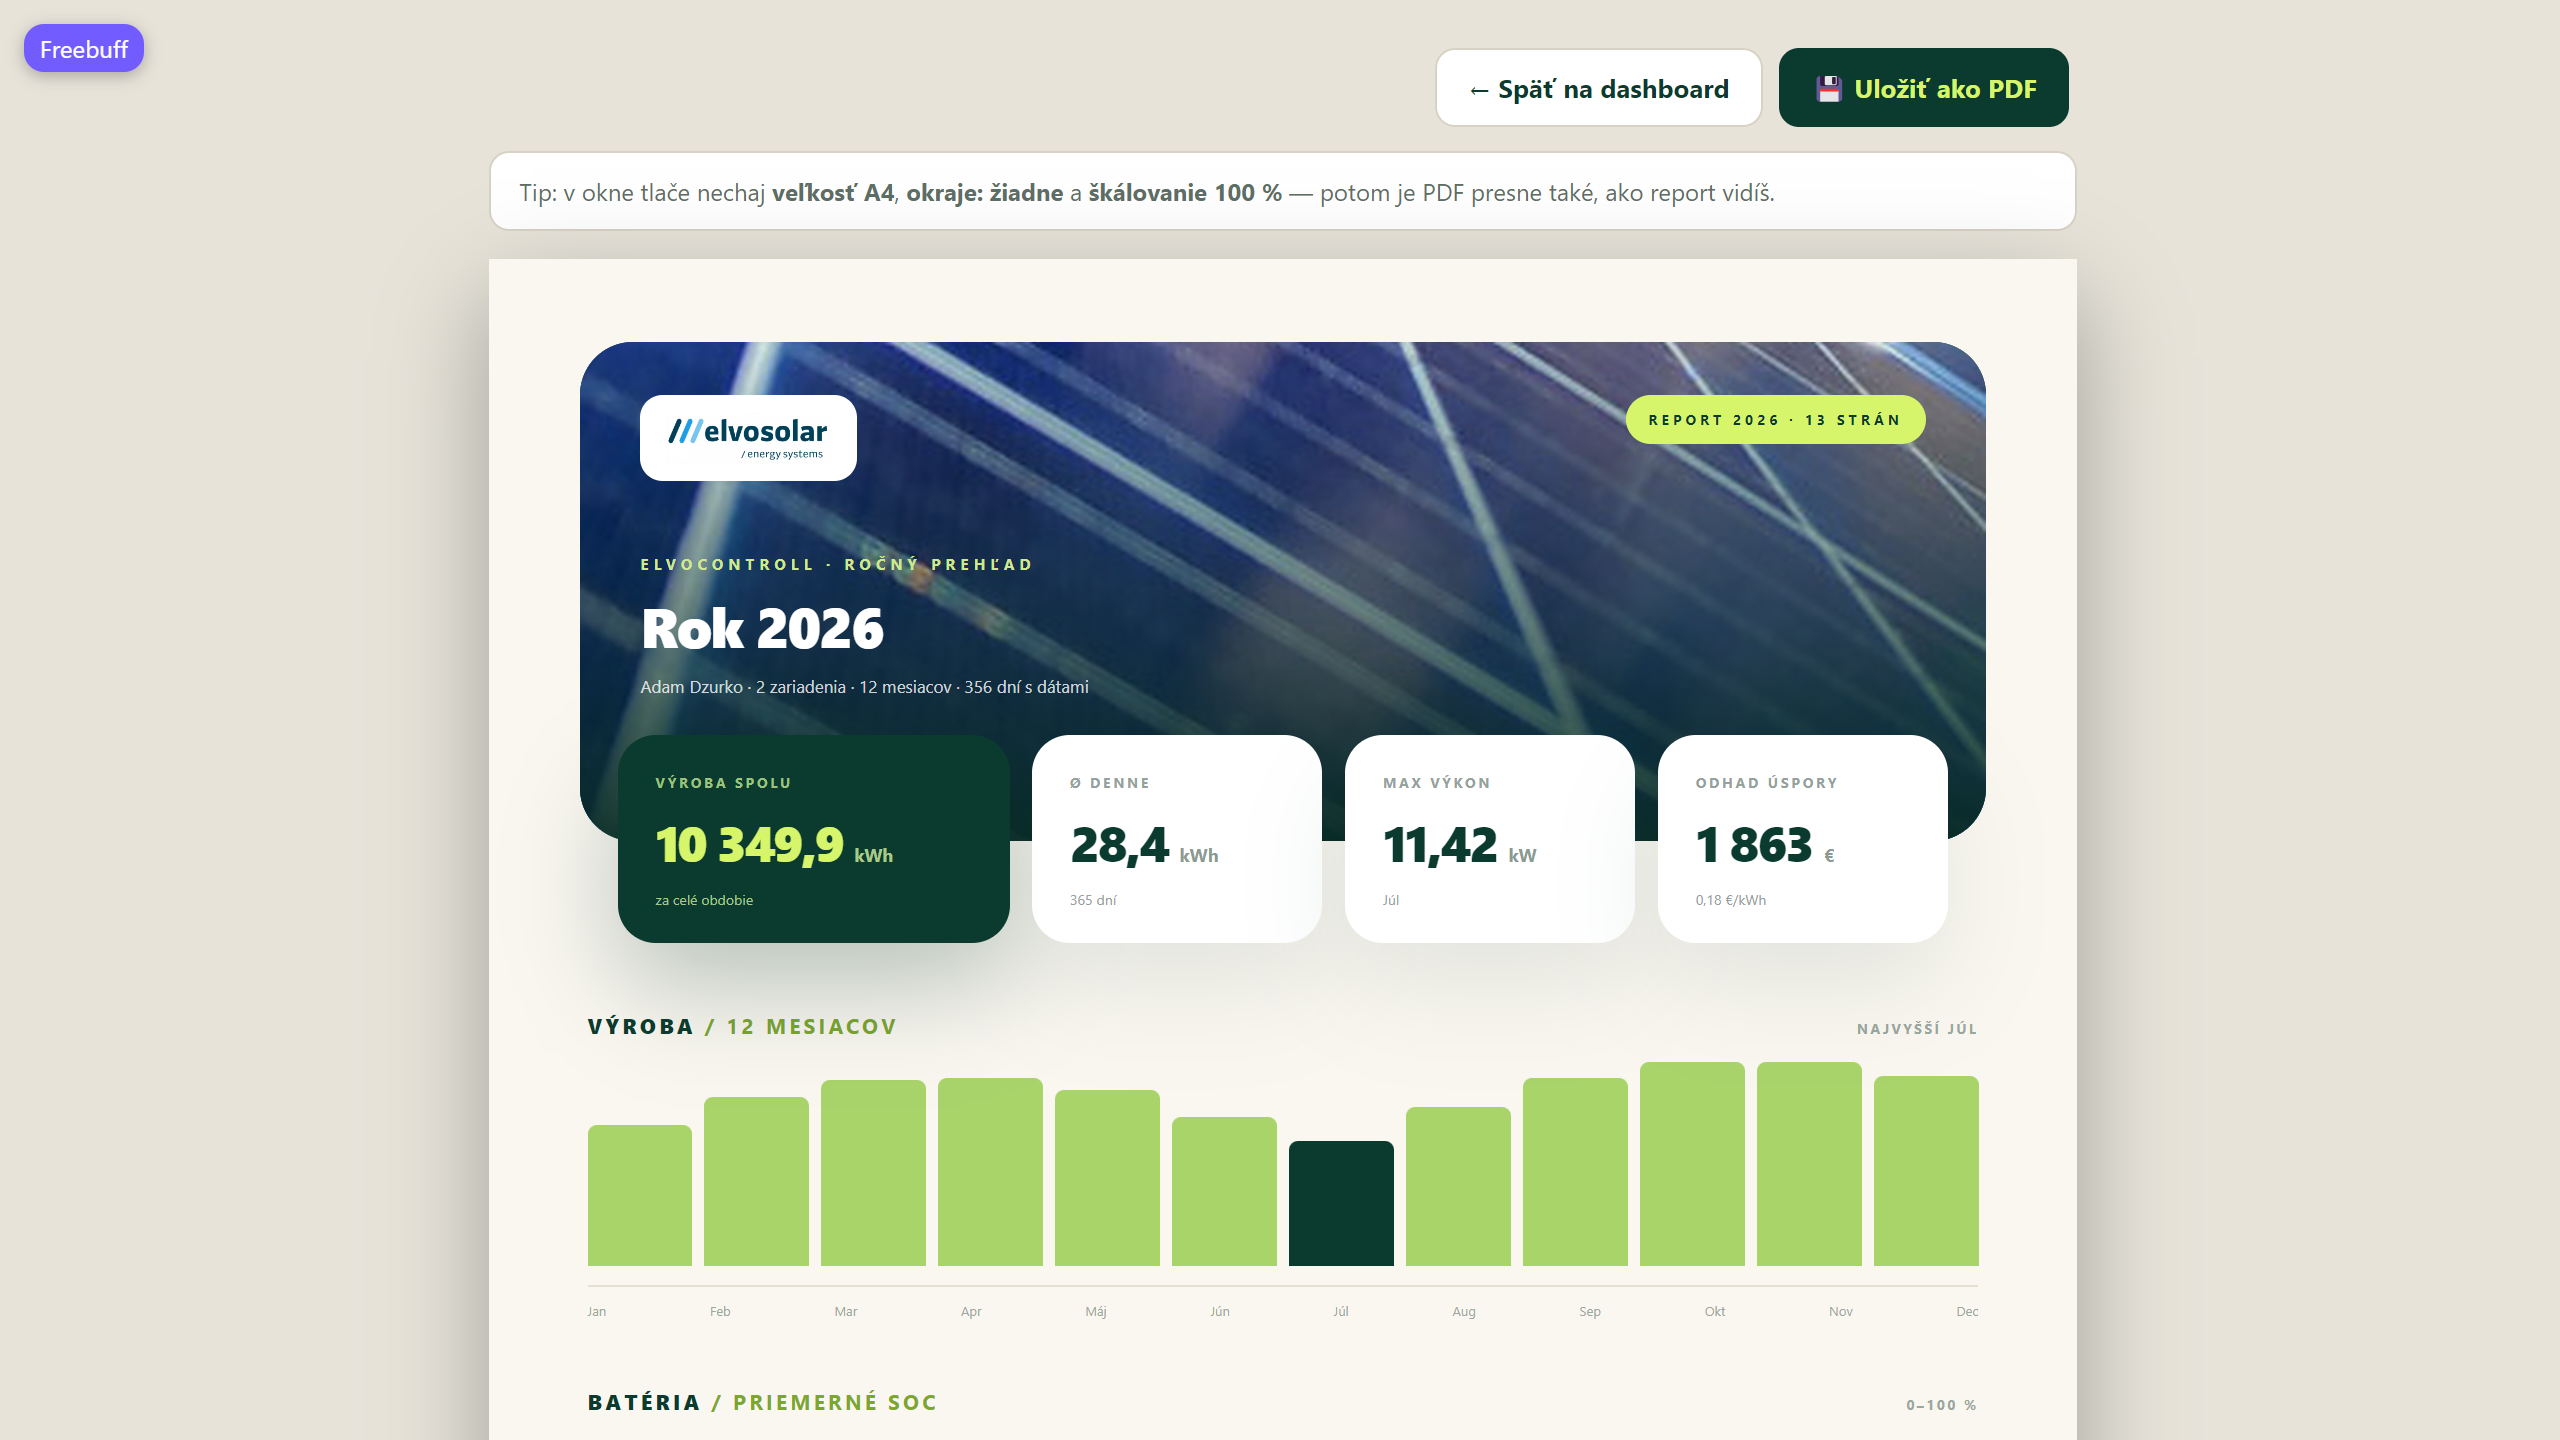
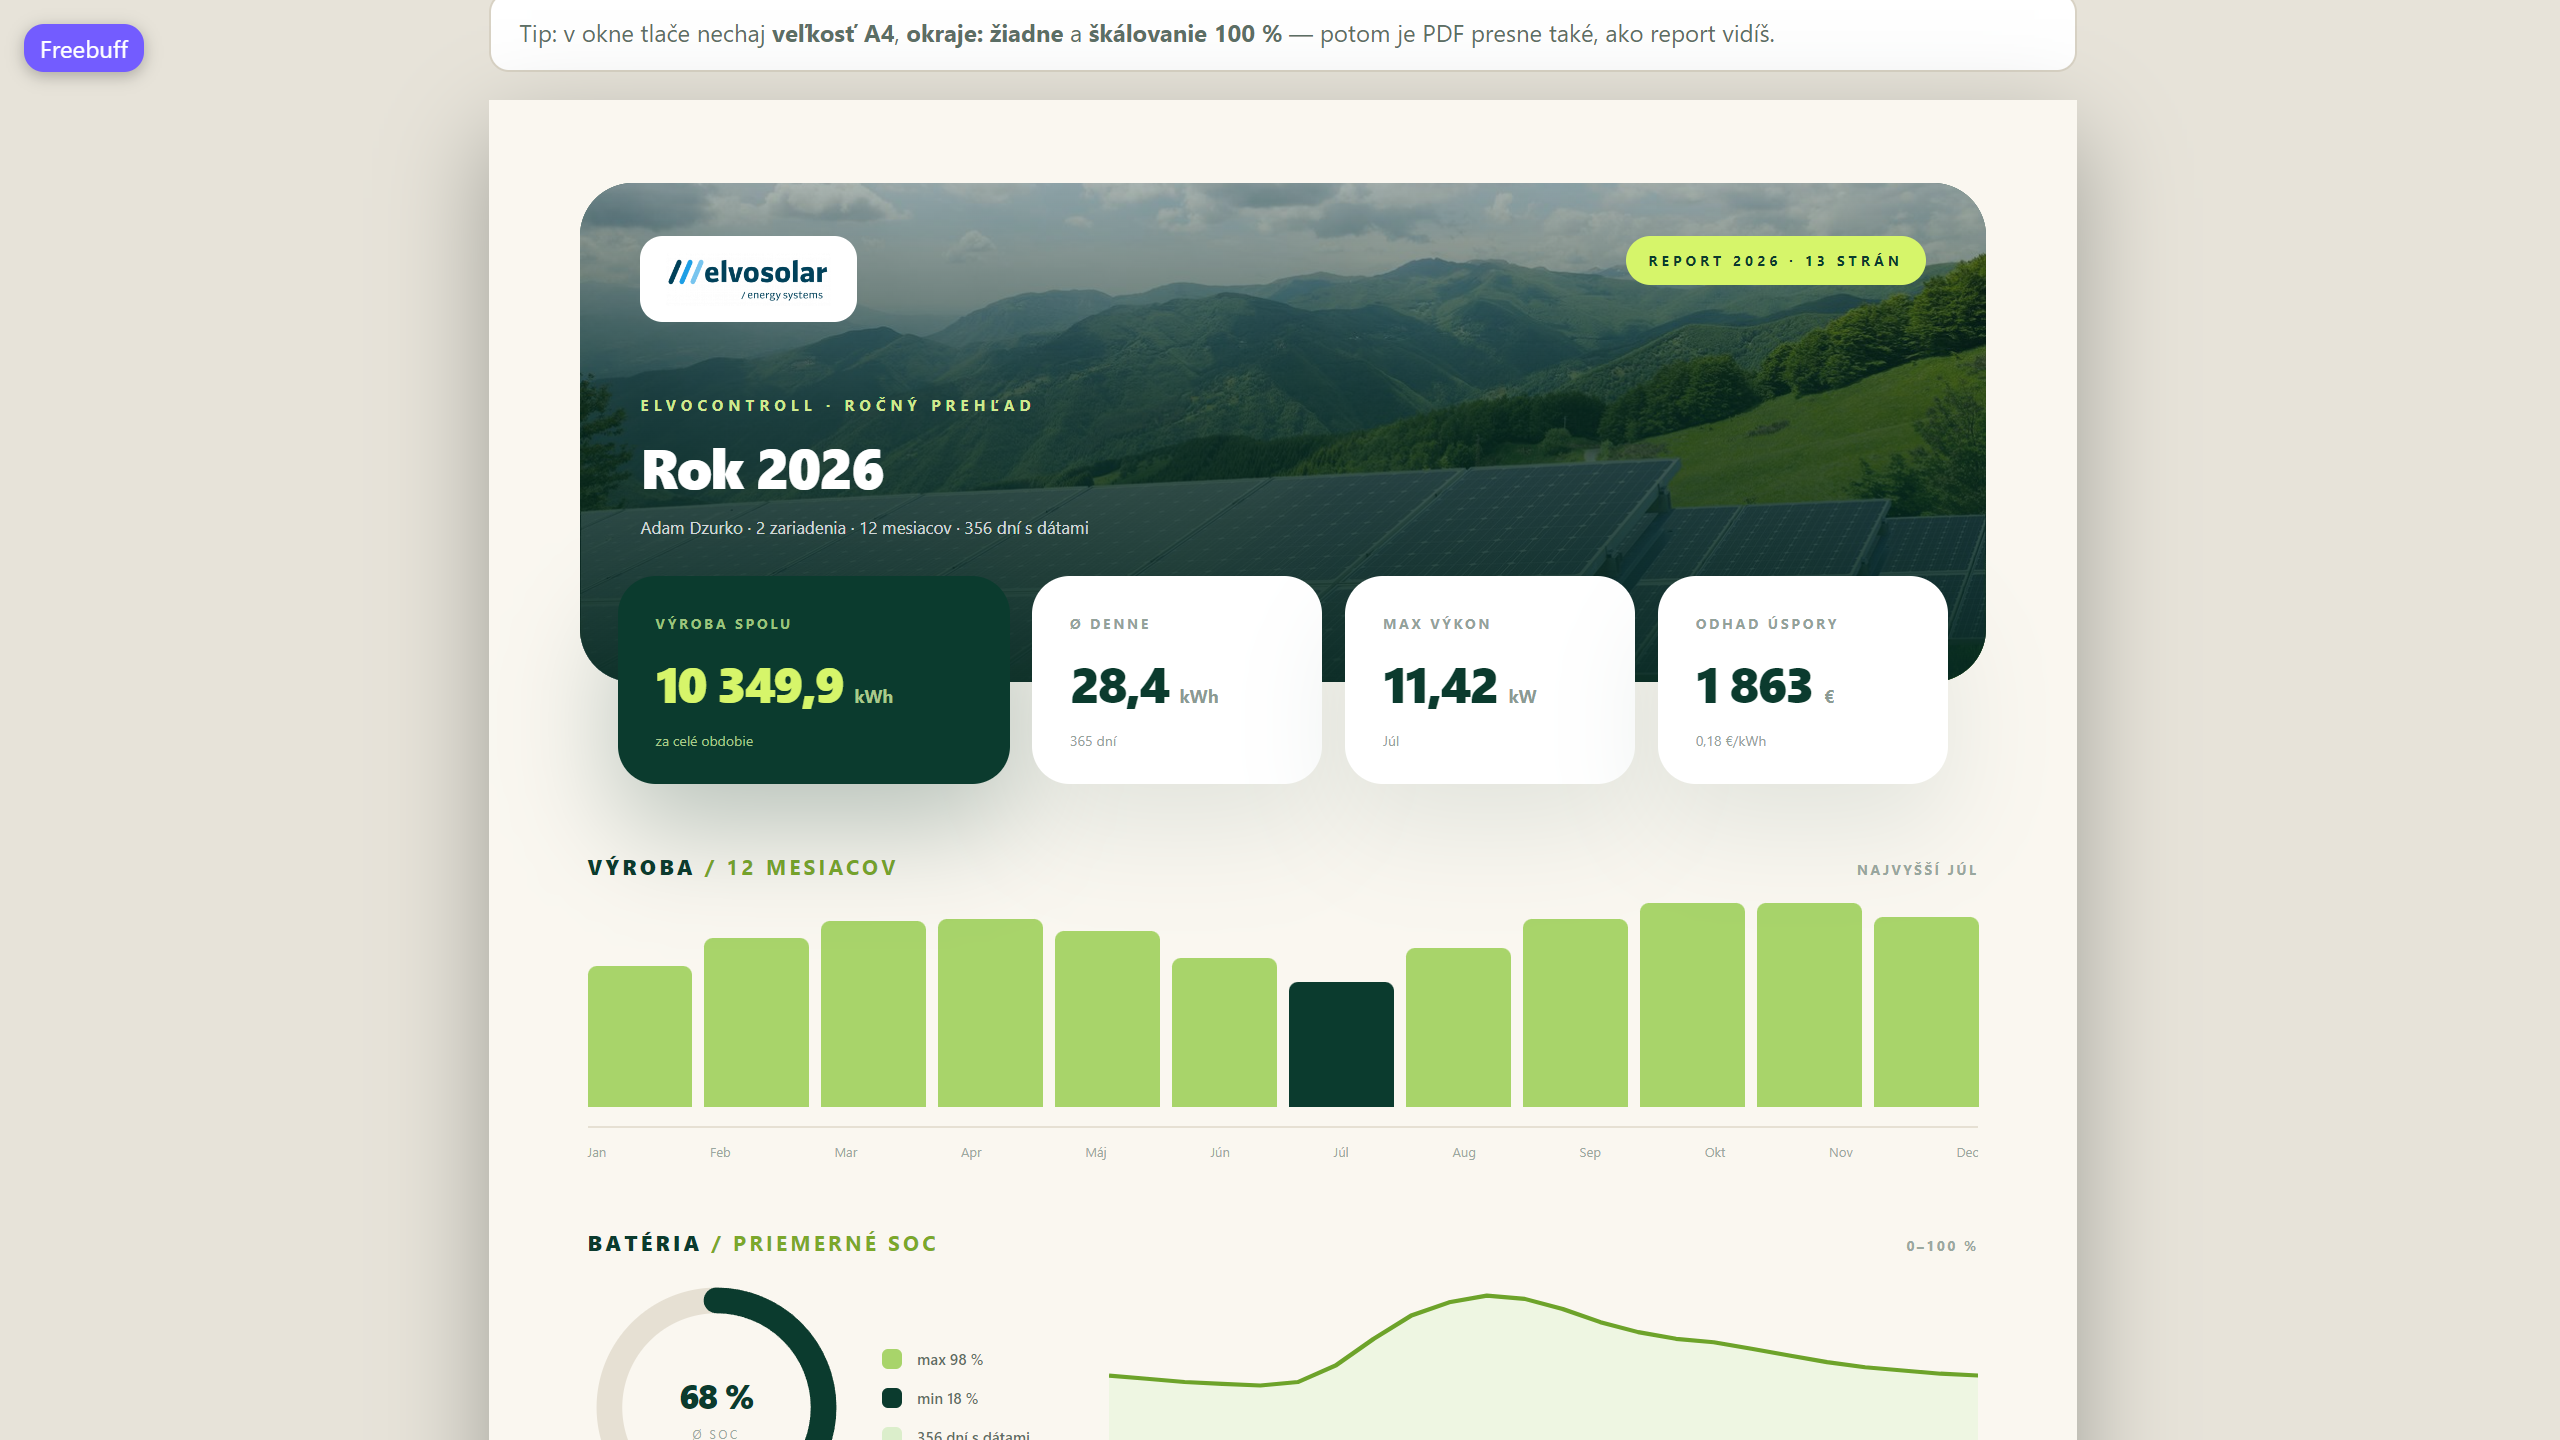
Report používa Fotovoltika1 — solárnu elektráreň v krajine
Namiesto výrezu z montáže je v hlavičke reportu firemná fotka Fotovoltika1
(panely pod horami) so silnejším zeleným prekrytím, aby logo a biely text
zostali čitateľné aj pri tlači. Vlastný výrez panelov tým padá.

diff --git a/Software/App/templates/report.html b/Software/App/templates/report.html
@@ -45,9 +45,9 @@ $n = static function ($v, $d = 1) {
     .print-hint { max-width: 210mm; margin: 0 auto 14px auto; font-size: 12px; color: #5c6f66;
         background: #fff; border: 1px solid #d8d2c4; border-radius: 10px; padding: 10px 14px; line-height: 1.5; }
     .cover { position: relative; height: 66mm; border-radius: 7mm; overflow: hidden; background: #0b3b2e; }
-    .cover img.ph { position: absolute; inset: 0; width: 100%; height: 100%; object-fit: cover; object-position: 52% 42%; }
+    .cover img.ph { position: absolute; inset: 0; width: 100%; height: 100%; object-fit: cover; object-position: 50% 72%; }
     .cover .veil { position: absolute; inset: 0;
-        background: linear-gradient(180deg, rgba(6,40,32,0.10) 0%, rgba(6,40,32,0.55) 55%, rgba(6,40,32,0.94) 100%); }
+        background: linear-gradient(180deg, rgba(6,40,32,0.34) 0%, rgba(6,40,32,0.72) 45%, rgba(6,40,32,0.94) 100%); }
     .cover .top { position: absolute; top: 7mm; left: 8mm; right: 8mm; display: flex; justify-content: space-between; align-items: flex-start; }
     .cover .logo-chip { background: #ffffff; border-radius: 3mm; padding: 2.2mm 3.4mm; }
     .cover .logo-chip img { height: 7mm; display: block; }
@@ -176,7 +176,7 @@ $n = static function ($v, $d = 1) {
 <div class="page">
 
     <div class="cover">
-        <img class="ph" src="<?php echo htmlspecialchars($base); ?>/templates/fotovoltika.jpg" alt="">
+        <img class="ph" src="<?php echo htmlspecialchars($base); ?>/templates/Fotovoltika1.jpg" alt="">
         <div class="veil"></div>
         <div class="top">
             <div class="logo-chip">
